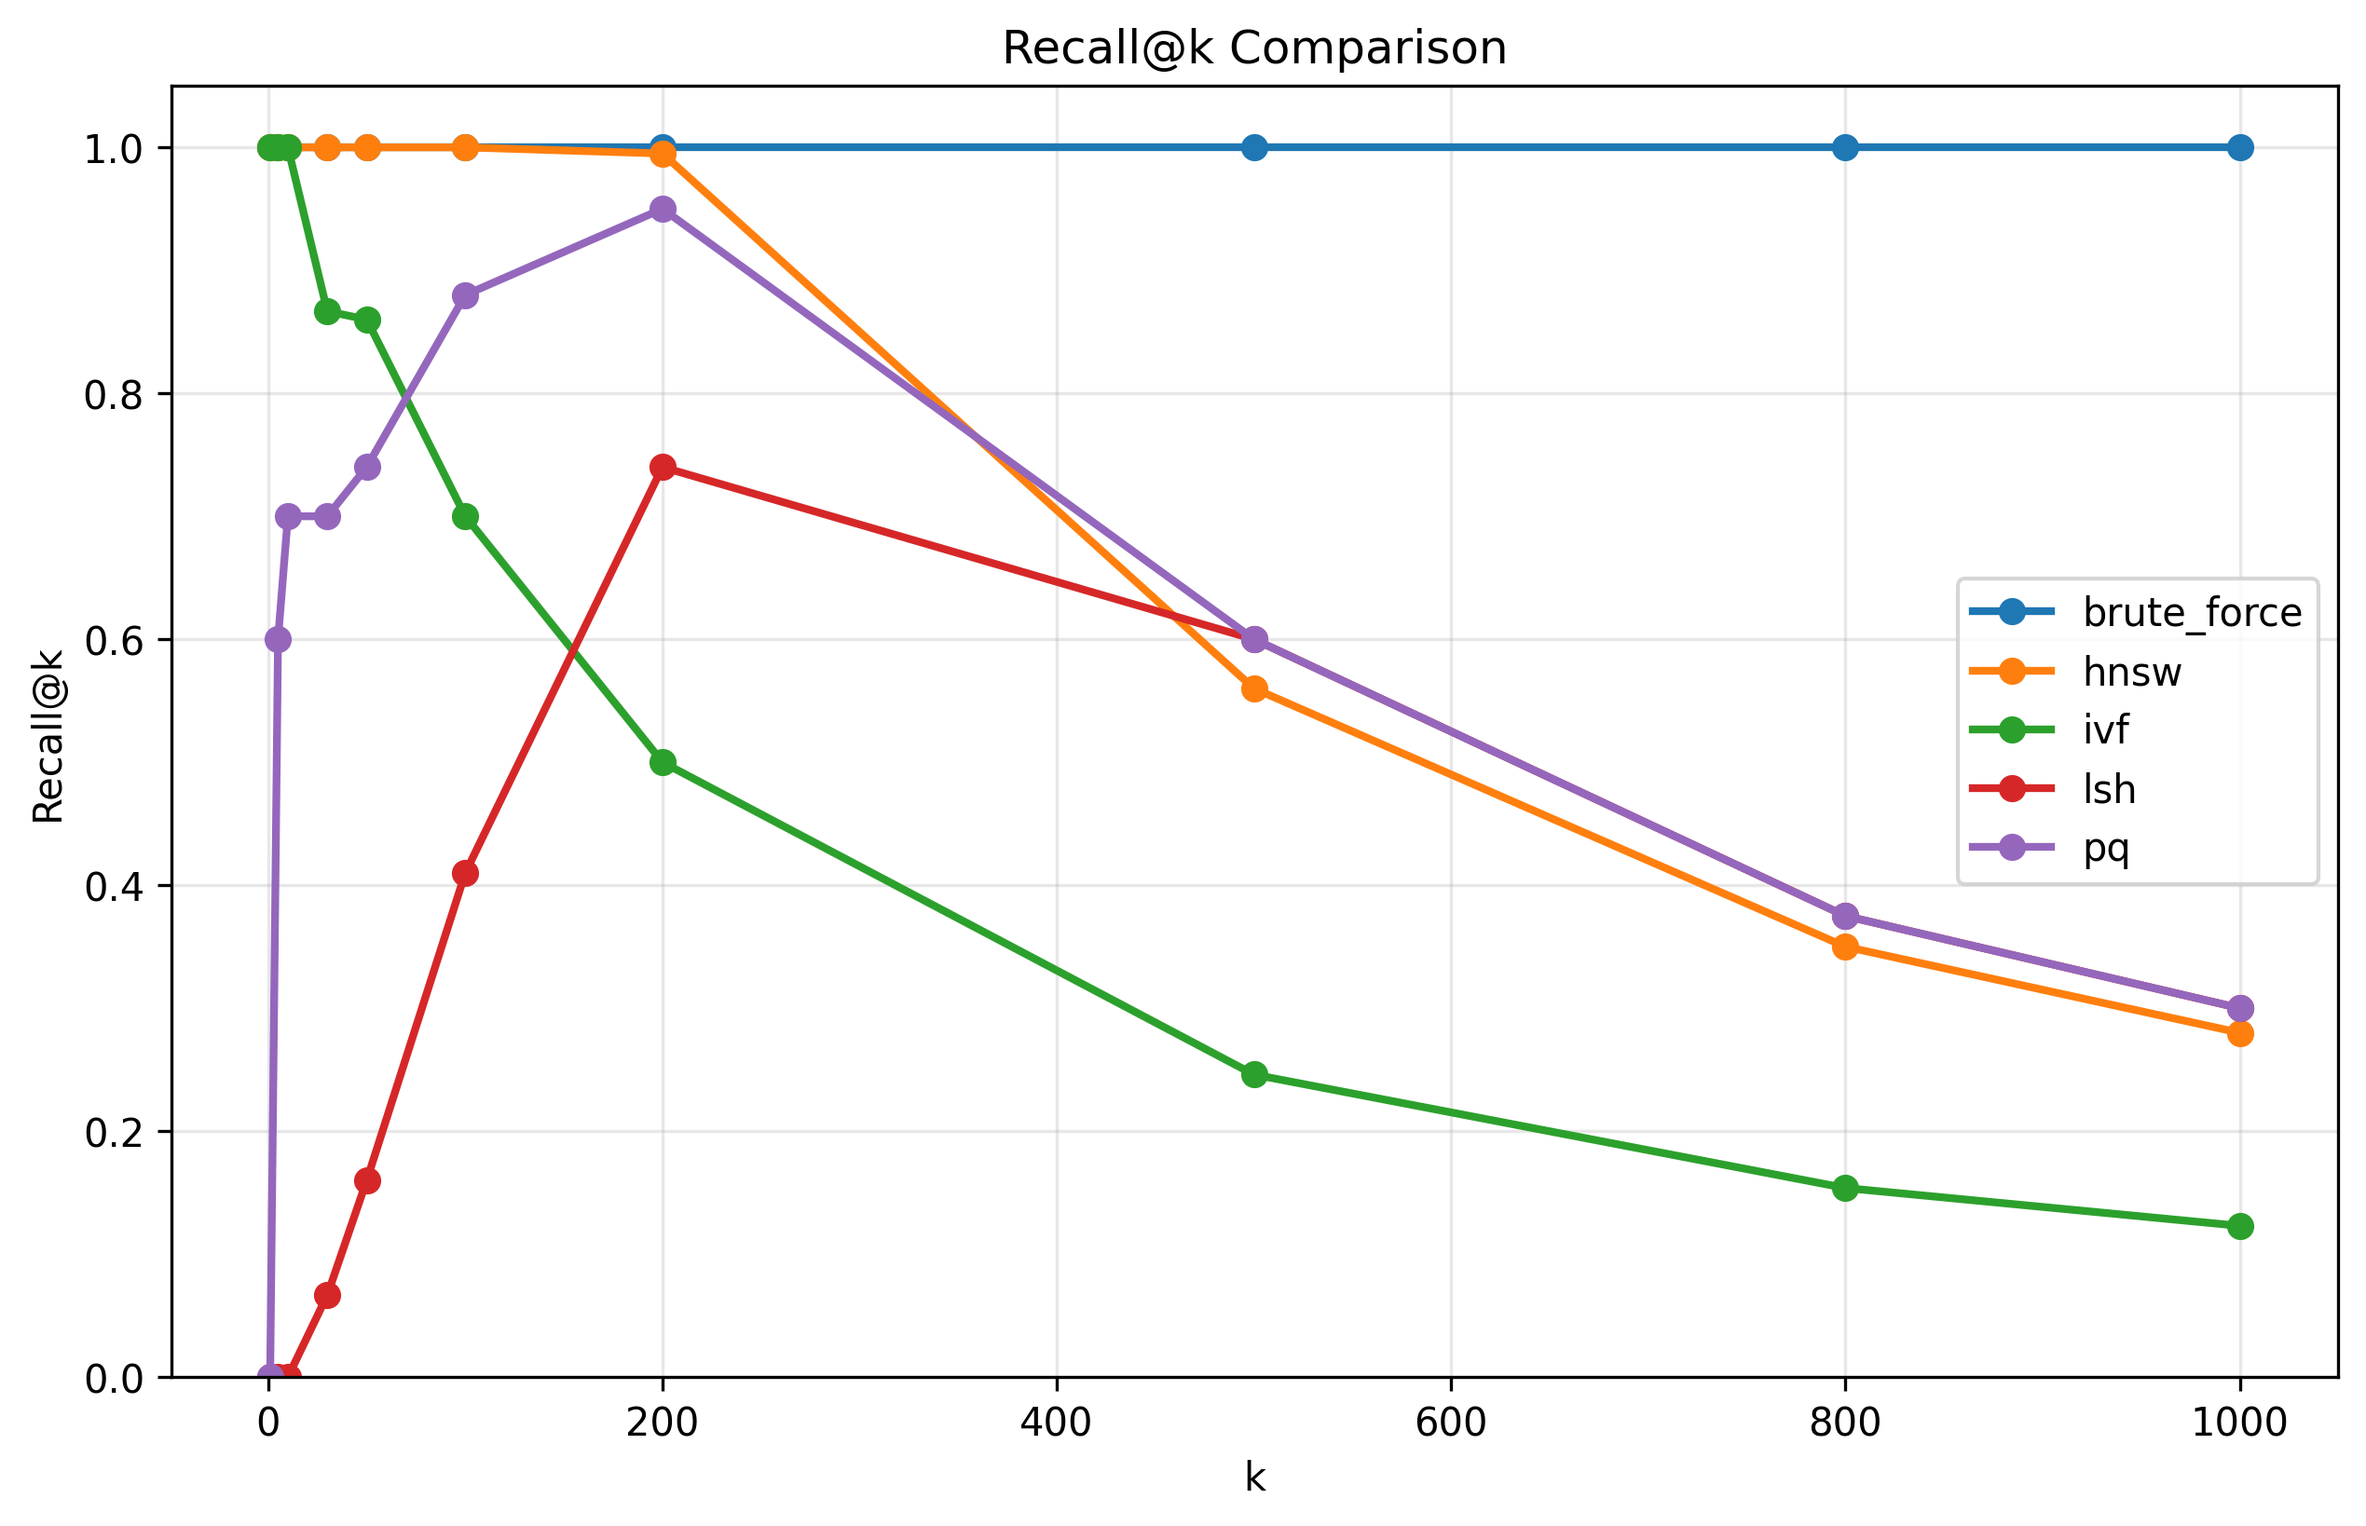
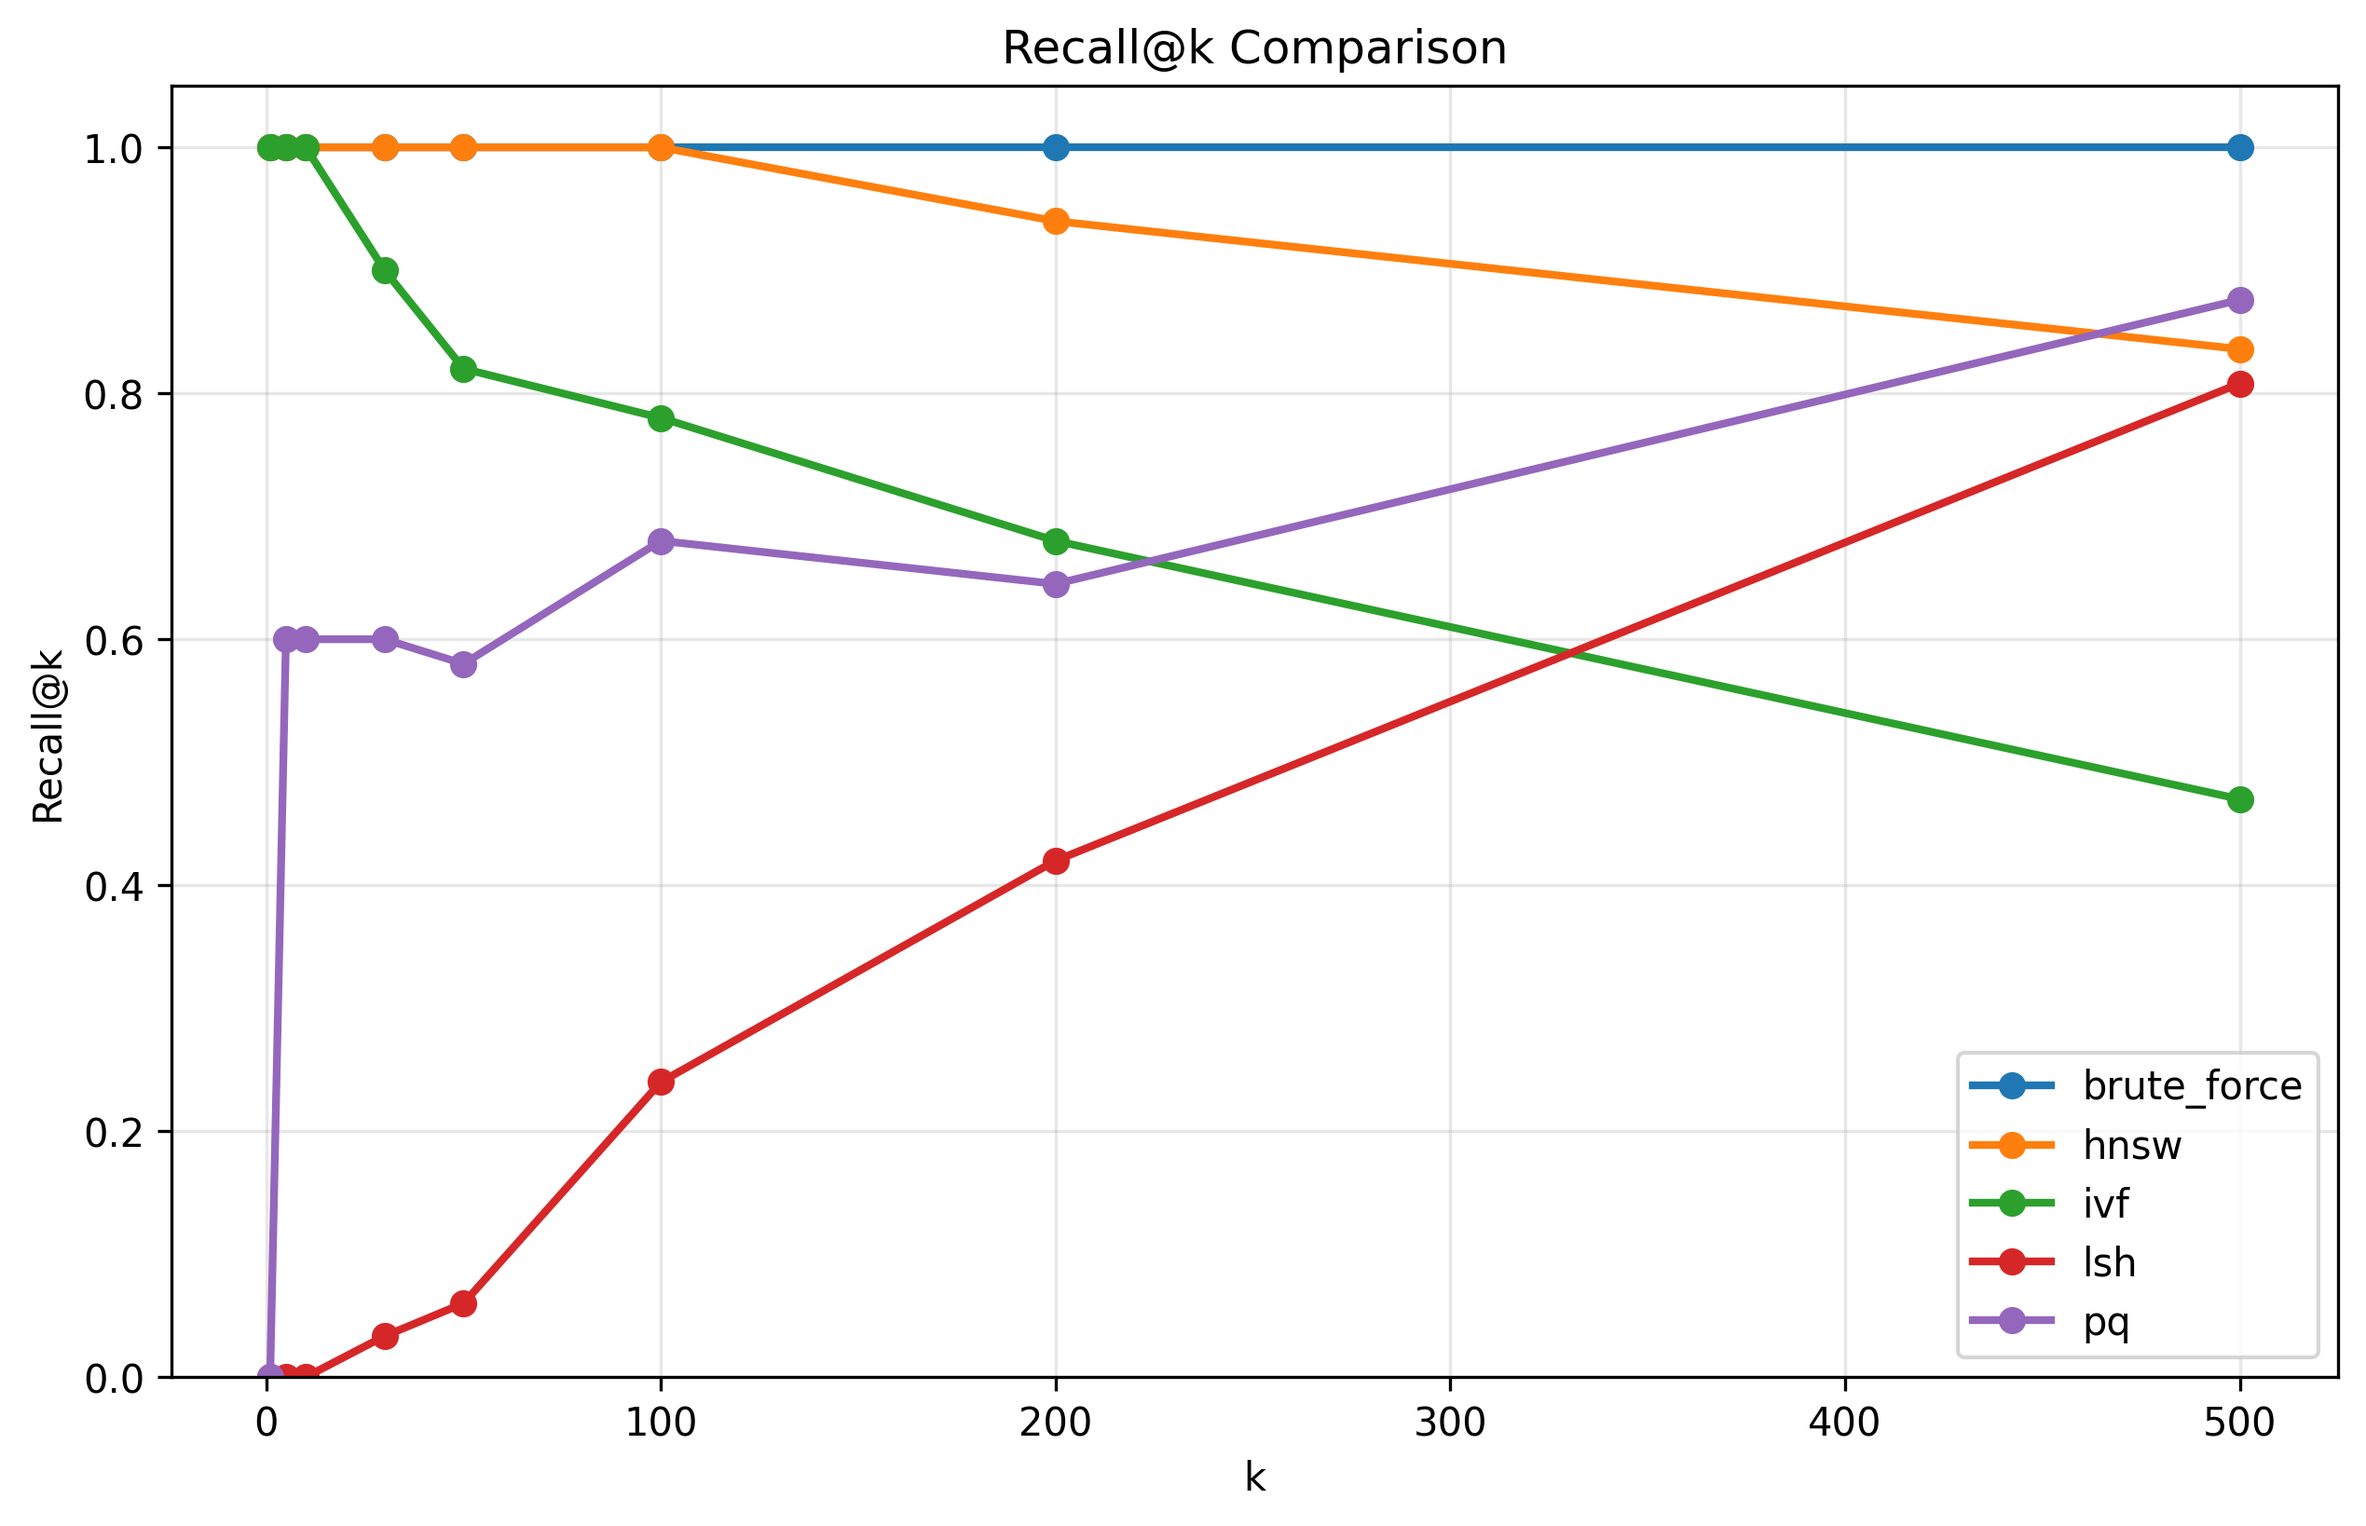
WIP

diff --git a/src/pipeline/embedder_pipeline.py b/src/pipeline/embedder_pipeline.py
@@ -23,8 +23,7 @@ logger = logging.getLogger(__name__)
 SAVE_REPORTS_PATH = "reports/quality-time"
 
 
-class QualityPipeline(Pipeline):
-    """Pipeline for running end-to-end quality experiment."""
+class EmbedderPipeline(Pipeline):
 
     def __init__(self, config: QualityPipelineConfig) -> None:
         super().__init__(config)
@@ -45,43 +44,20 @@ class QualityPipeline(Pipeline):
 
     def run_pipeline(self) -> tp.Any:
         """Run pipeline and return results."""
-        self.setup()
-        sota_index_config = IndexConfig(
-            index_name="brute_force",
-            dimension=self.config.embedder_config.head_size,
-            metric="l2",
+        index: BaseIndex = self.build_index(
+            IndexConfig(
+                index_name="brute_force",
+                dimension=self.config.embedder_config.head_size,
+                metric="cosine",
+            )
         )
-        sota_index: BruteForceIndex = IndexFactory.create(sota_index_config)
 
-        indexes_to_compare: tp.List[BaseIndex] = [
-            IndexFactory.create(index_config)
-            for index_config in self.config.indexes_to_compare
-        ]
-
-        # 1. Get SOTA results for retrieval using brute force index
-        sota_index.build_from_corpus(self.corpus, self.embedder)
-        query_embeddings = self.embedder.embed_query(self.config.queries)
-
-        search_start = time.time()
-        sota_results = sota_index.search(
-            query_embeddings,
-            min(max(self.config.recall_ranks), self.corpus.n_documents),
-        )
-        search_time_sota = time.time() - search_start
-        comparison_results = {
-            "brute_force": {
-                "recall": {k: 1.0 for k in self.config.recall_ranks},
-                "search_time": search_time_sota,
-                "time_per_query": search_time_sota / len(self.config.queries),
-            }
-        }
-
-        # 2. Get results for retrieval using other indexes
-        for index in tqdm(indexes_to_compare, desc="Comparing indexes"):
+        results = {}
+        for index in tqdm(self.config.dimensions_to_compare, desc="Comparing embedder dimensions"):
             index.build_from_corpus(self.corpus, self.embedder)
             search_start = time.time()
             results = index.search(
-                query_embeddings,
+                # query_embeddings,
                 min(max(self.config.recall_ranks), self.corpus.n_documents),
             )
             search_time = time.time() - search_start
@@ -106,7 +82,7 @@ if __name__ == "__main__":
         "/Users/egor/Documents/code/ml-email-search/src/data_loader/emails.csv"
     )
     loader.preprocess(raw_email_col="message")
-    documents: tp.List[tp.Tuple[int, str]] = loader.get_faiss_dataset()
+    documents: tp.List[tp.Tuple[int, str]] = loader.get_faiss_dataset()[:500]
     config = QualityPipelineConfig(
         documents=documents,
         queries=["What is the capital of France?"],
@@ -116,7 +92,7 @@ if __name__ == "__main__":
             IndexConfig(index_name="lsh", dimension=384, metric="l2"),
             IndexConfig(index_name="pq", dimension=384, metric="l2"),
         ],
-        recall_ranks=[1, 5, 10, 30, 50, 100, 200, 500],
+        recall_ranks=[1, 5, 10, 30, 50, 100, 200, 500, 800, 1000],
         embedder_config=EmbedderConfig(
             model_name="encoder_model",
             model_id="sentence-transformers/all-MiniLM-L6-v2",
